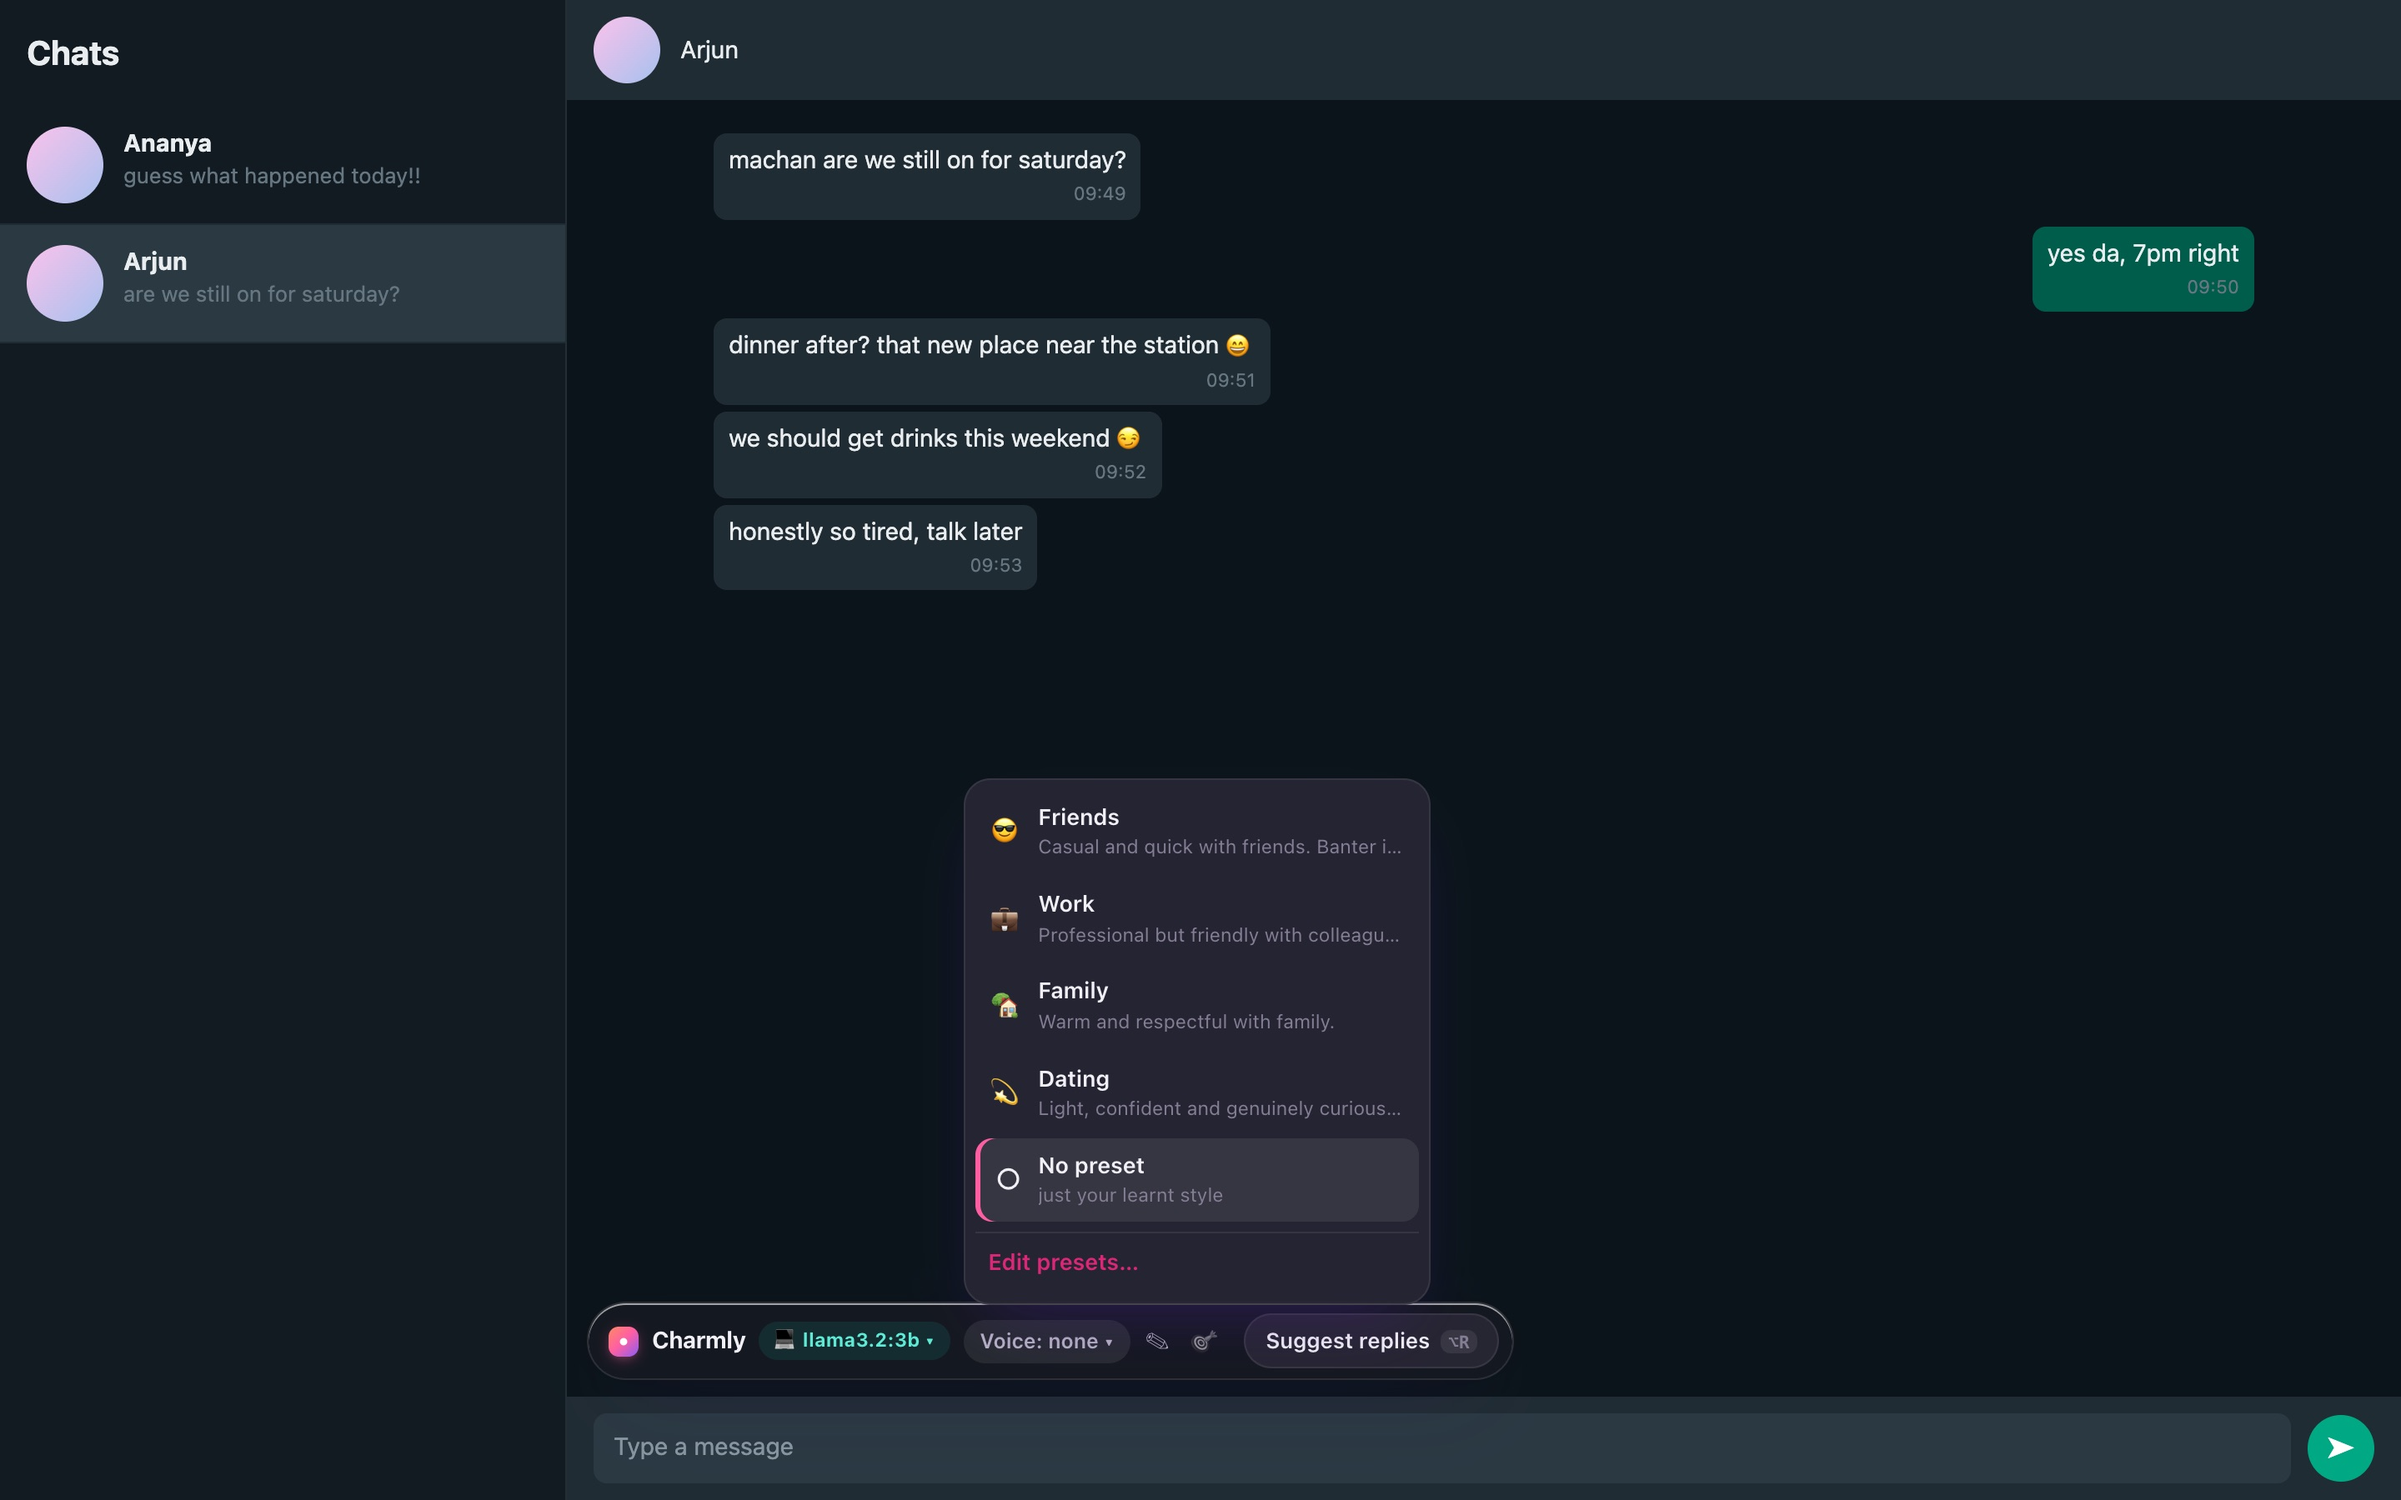
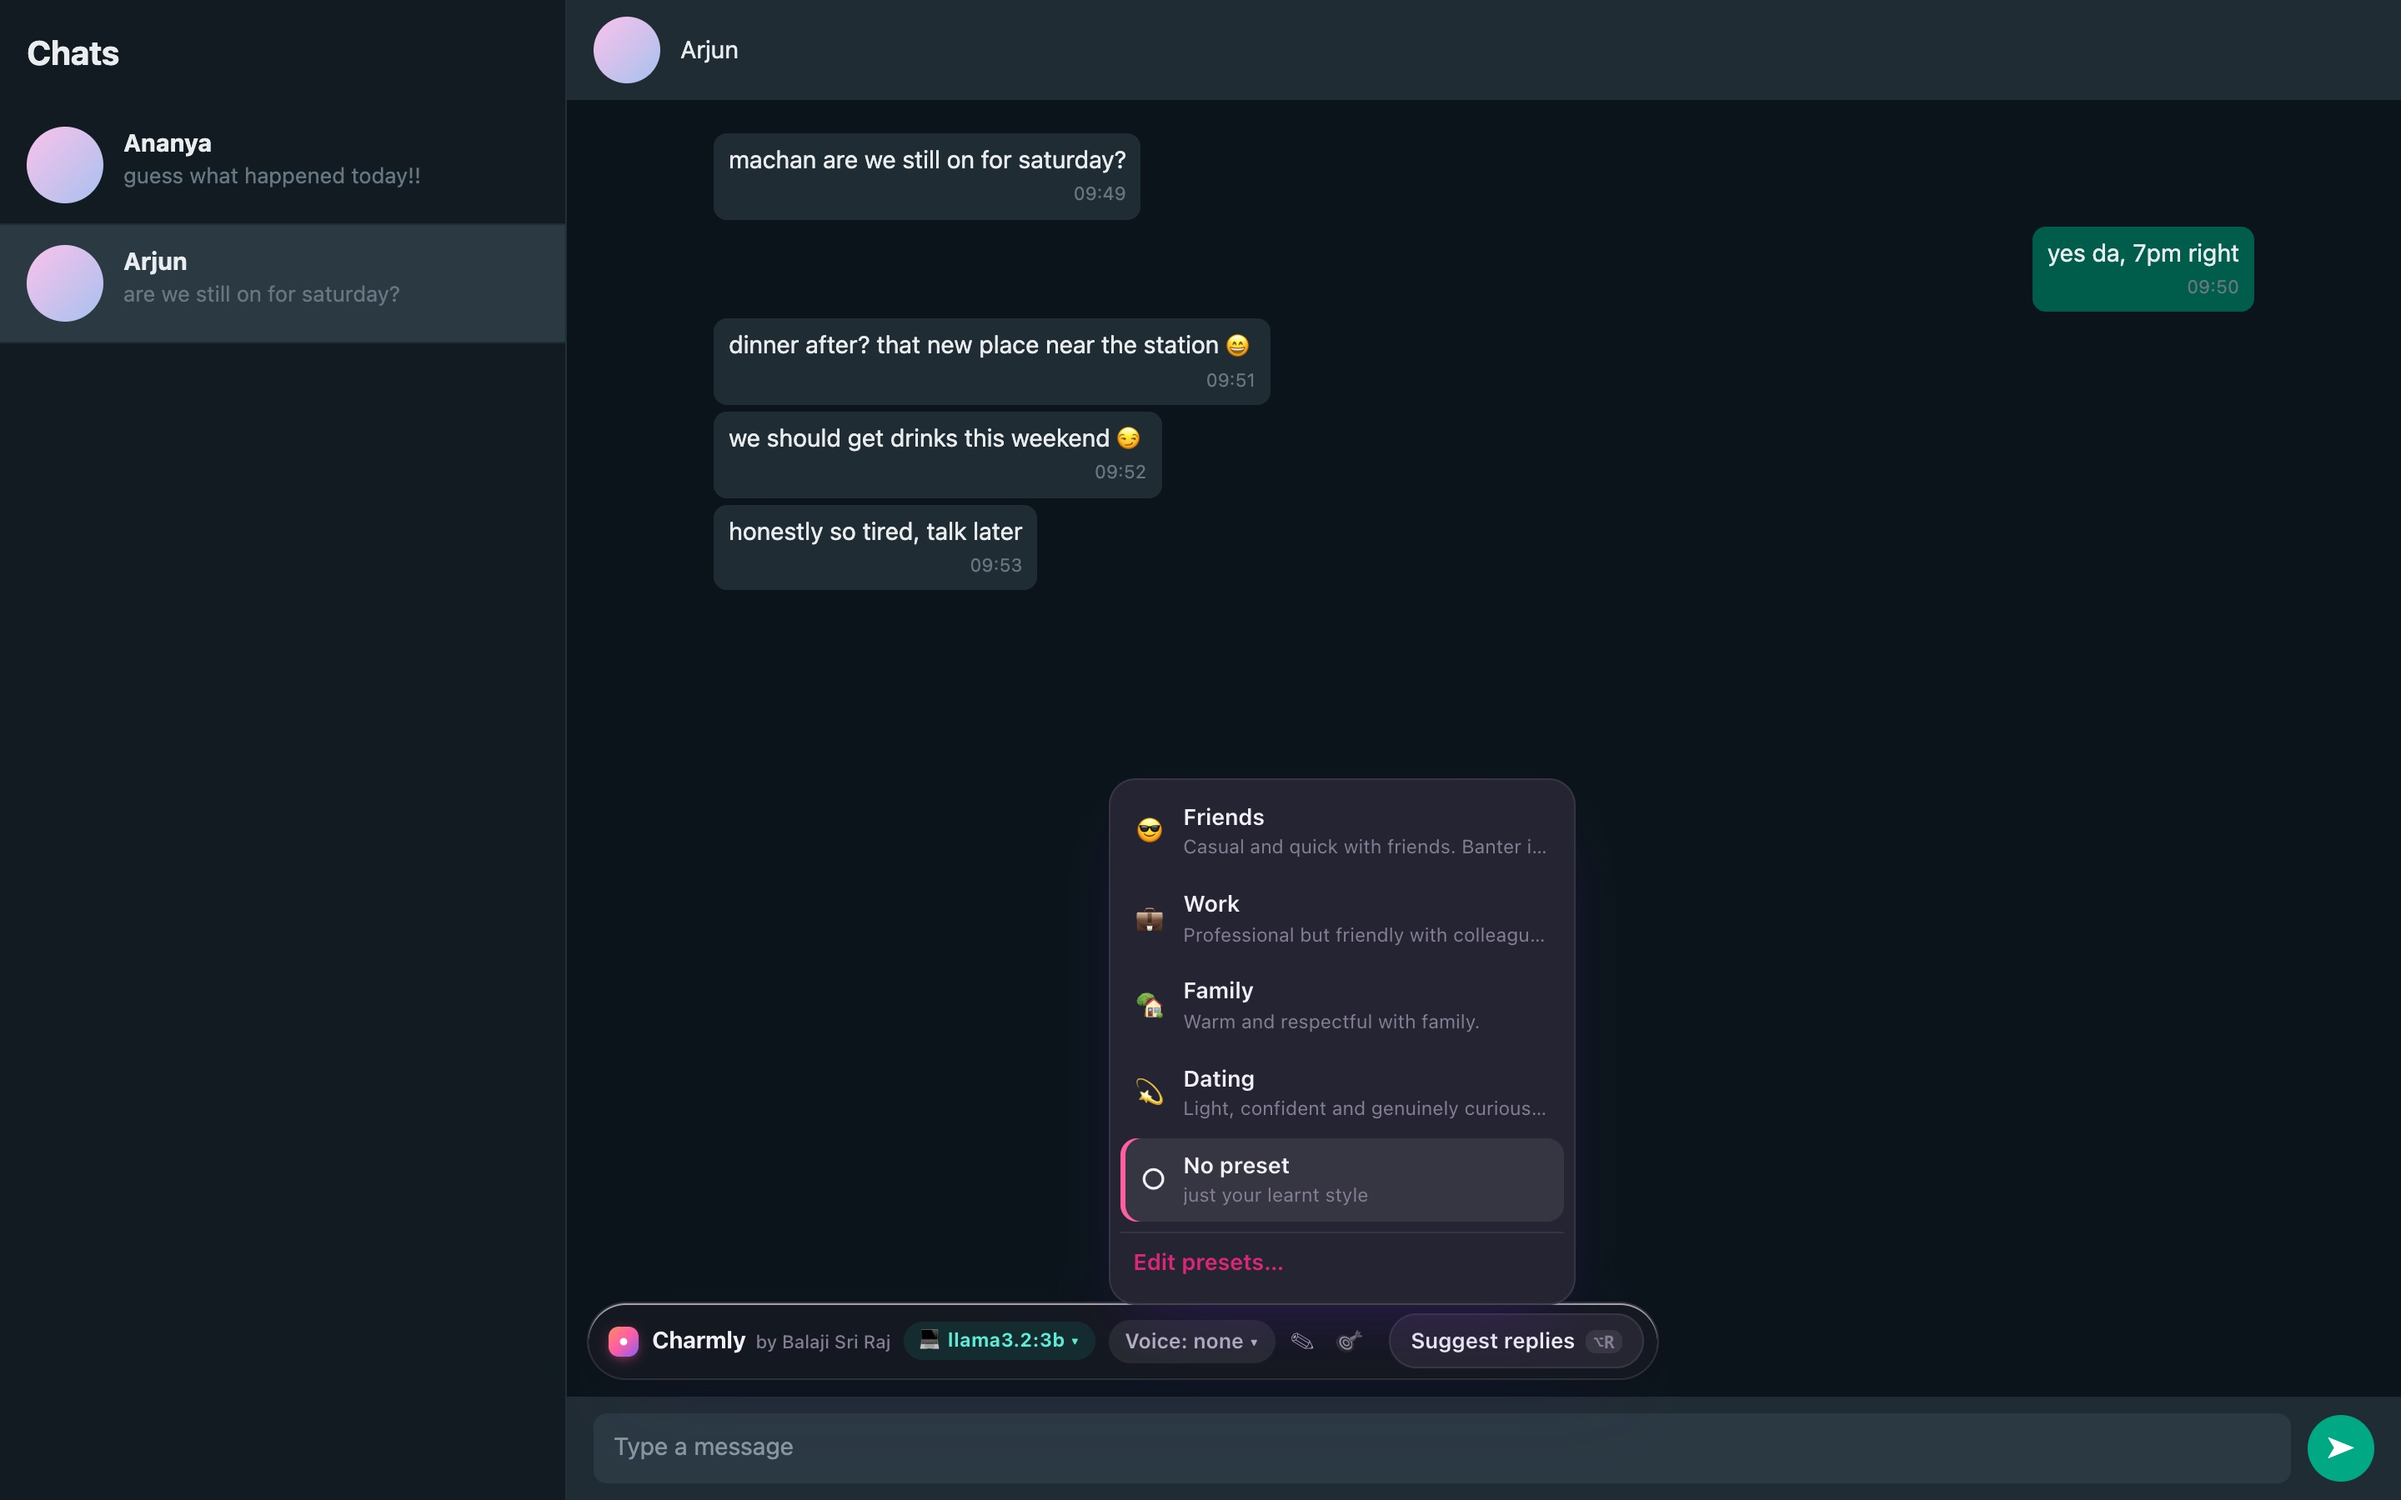
Credit Balaji Sri Raj throughout, with a licence that requires keeping it
- 'by Balaji Sri Raj' in the tray, popup and presets page, linking to balajisriraj.com
- Manifest author and homepage; a copyright banner at the top of every built file; LICENSE shipped in dist
- LICENSE: personal use allowed; copies and forks must keep the credit visible; no commercial use without permission

Changed region(s): [[0.3125, 0.4978, 0.6875, 0.9333]]

diff --git a/extension/src/content/tray.ts b/extension/src/content/tray.ts
@@ -1,5 +1,6 @@
 // The suggestion tray: a small glass panel docked above WhatsApp's message box, rendered in a shadow root.
 import { type Engine, type GoalProgress, type Preset, TONES, type Suggestion, type Tone, type Vibe } from "../shared/types";
+import { AUTHOR_URL, CREDIT } from "../shared/brand";
 import css from "./tray.css";
 
 type State =
@@ -226,7 +227,7 @@ export class Tray {
           <button role="menuitemradio" aria-checked="${this.engine === "demo"}" data-act="engine" data-engine="demo" class="${this.engine === "demo" ? "on" : ""}"><span>✨</span>Demo<em>sample suggestions</em></button>
         </div>`
       : "";
-    const brand = `<span class="mark" aria-hidden="true"></span><b>Charmly</b><span class="persona"><button class="engine-chip ${this.engine}" data-act="engine-menu" aria-haspopup="menu" aria-expanded="${this.engineMenu}" title="Switch between on-device and Claude">${esc(engineLabel)} ▾</button>${engineMenu}</span>`;
+    const brand = `<span class="mark" aria-hidden="true"></span><b>Charmly</b><a class="by" href="${AUTHOR_URL}" target="_blank" rel="noopener" title="Charmly is designed and built by Balaji Sri Raj">${CREDIT}</a><span class="persona"><button class="engine-chip ${this.engine}" data-act="engine-menu" aria-haspopup="menu" aria-expanded="${this.engineMenu}" title="Switch between on-device and Claude">${esc(engineLabel)} ▾</button>${engineMenu}</span>`;
     const current = this.presets.find((p) => p.id === this.preset);
     const persona = `<span class="persona">
         <button class="preset-chip ${current ? "set" : ""}" data-act="menu" aria-haspopup="menu" aria-expanded="${this.menu}" title="Voice preset for this chat">${current ? `${esc(current.emoji)} ${esc(current.name)}` : "Voice: none"} ▾</button>

diff --git a/extension/src/options/Options.tsx b/extension/src/options/Options.tsx
@@ -1,5 +1,6 @@
 import { useEffect, useRef, useState } from "react";
 import { createRoot } from "react-dom/client";
+import { AUTHOR, AUTHOR_URL } from "../shared/brand";
 import { rulesBlock } from "../shared/prompt";
 import { normalise, normalisePreset, normalisePresets, type Preset, type Settings, STARTER_PRESETS } from "../shared/types";
 
@@ -122,6 +123,9 @@ function App() {
         <span className="logo" aria-hidden="true" />
         <div>
           <h1>Voice presets</h1>
+          <a className="credit" href={AUTHOR_URL} target="_blank" rel="noreferrer">
+            Charmly · designed &amp; built by <b>{AUTHOR}</b>
+          </a>
           <p>Each preset tells Charmly who you are in that kind of chat, how you talk, and what it must always or never say. Switch presets from the tray in any chat; Charmly remembers your choice per chat.</p>
         </div>
         <span className={`saved ${saved ? "on" : ""}`}>{saved ? "Saved ✓" : "Saving…"}</span>

diff --git a/extension/src/popup/Popup.tsx b/extension/src/popup/Popup.tsx
@@ -1,5 +1,6 @@
 import { useCallback, useEffect, useState } from "react";
 import { createRoot } from "react-dom/client";
+import { AUTHOR, AUTHOR_URL } from "../shared/brand";
 import type { LocalModel } from "../shared/ollama";
 import { DEFAULTS, type Engine, normalise, normalisePresets, type Preset, type Settings, type StyleProfile, TONES } from "../shared/types";
 
@@ -261,6 +262,9 @@ function App() {
         {s.engine === "local"
           ? "On-device: your chats are read and answered on this laptop. Nothing is sent anywhere."
           : "Reads only the open chat, replaces names with Them and Me, and never sends anything for you."}
+        <a className="credit" href={AUTHOR_URL} target="_blank" rel="noreferrer">
+          Designed &amp; built by <b>{AUTHOR}</b>
+        </a>
       </footer>
     </main>
   );

diff --git a/extension/src/popup/popup.css b/extension/src/popup/popup.css
@@ -65,3 +65,5 @@ footer { margin: 12px 4px 0; font-size: 11.5px; color: var(--ink-3); }
 .presets button { display: flex; align-items: center; gap: 8px; padding: 8px 10px; border-radius: 12px; border: 1px solid var(--line); background: #fff; font-family: inherit; font-weight: 600; font-size: 12.5px; color: var(--ink); cursor: pointer; }
 .presets button span { font-size: 16px; }
 .presets button.on { border-color: #ff5fa2; background: #fff5fa; box-shadow: 0 6px 16px -12px #ff5fa2; }
+footer .credit { display: block; margin-top: 8px; color: var(--ink-3); text-decoration: none; }
+footer .credit b { background: var(--grad); -webkit-background-clip: text; background-clip: text; color: transparent; }

diff --git a/extension/src/options/options.css b/extension/src/options/options.css
@@ -75,3 +75,5 @@ textarea:focus, input:focus { outline: none; border-color: #ff5fa2; box-shadow: 
 .chats .tag { font-weight: 600; color: var(--ink-2); }
 .chats .note { color: var(--ink-2); white-space: nowrap; overflow: hidden; text-overflow: ellipsis; }
 @media (max-width: 860px) { .layout, .two { grid-template-columns: 1fr; } .presets { position: static; } .chats li { grid-template-columns: 1fr; } }
+header .credit { display: inline-block; margin: 2px 0 6px; font-size: 12.5px; color: #fff; opacity: .9; text-decoration: none; }
+header .credit:hover { opacity: 1; text-decoration: underline; }

diff --git a/extension/src/content/tray.css b/extension/src/content/tray.css
@@ -125,3 +125,7 @@ button.card:active { transform: translateY(0) scale(.99); }
 .goal-bar.paused { background: #f59e0b14; }
 .goal-bar.paused .steps i.on { background: #f59e0b; }
 .goal-bar .link { font-size: 12px; font-weight: 600; color: #db2777; }
+
+/* Credit. */
+.by { margin-left: -2px; font-size: 11px; font-weight: 500; color: var(--ink-3); text-decoration: none; white-space: nowrap; }
+.by:hover { color: #db2777; }

diff --git a/extension/src/shared/brand.ts b/extension/src/shared/brand.ts
@@ -1,0 +1,4 @@
+// Charmly is designed and built by Balaji Sri Raj. The LICENSE requires this credit to stay visible in the UI.
+export const AUTHOR = "Balaji Sri Raj";
+export const AUTHOR_URL = "https://balajisriraj.com";
+export const CREDIT = `by ${AUTHOR}`;

diff --git a/README.md b/README.md
@@ -191,6 +191,10 @@ extension/
   build.mjs        esbuild → MV3 bundle; --dev also allows localhost for the test page
 ```
 
+## Credit and licence
+
+Charmly is designed and built by [Balaji Sri Raj](https://balajisriraj.com). The credit appears in the tray, the popup, the presets page, the extension's manifest and the top of every built file. You're welcome to read the code and run Charmly for yourself. Copies and forks must keep that credit visible and may not be used commercially without permission. See [LICENSE](LICENSE).
+
 ---
 
 Part of [the Lab](https://balajisriraj.com/#lab), ten agentic products by [Balaji Sri Raj](https://balajisriraj.com).
